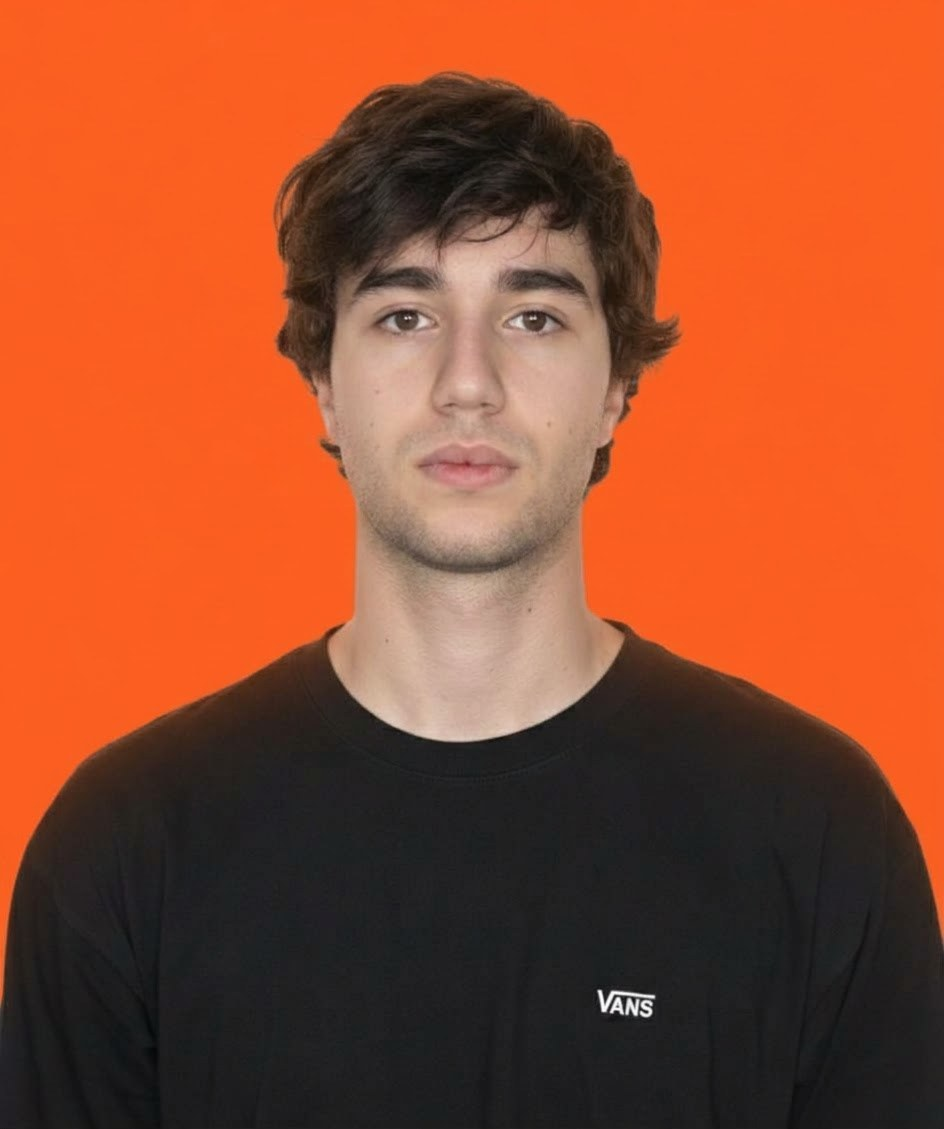
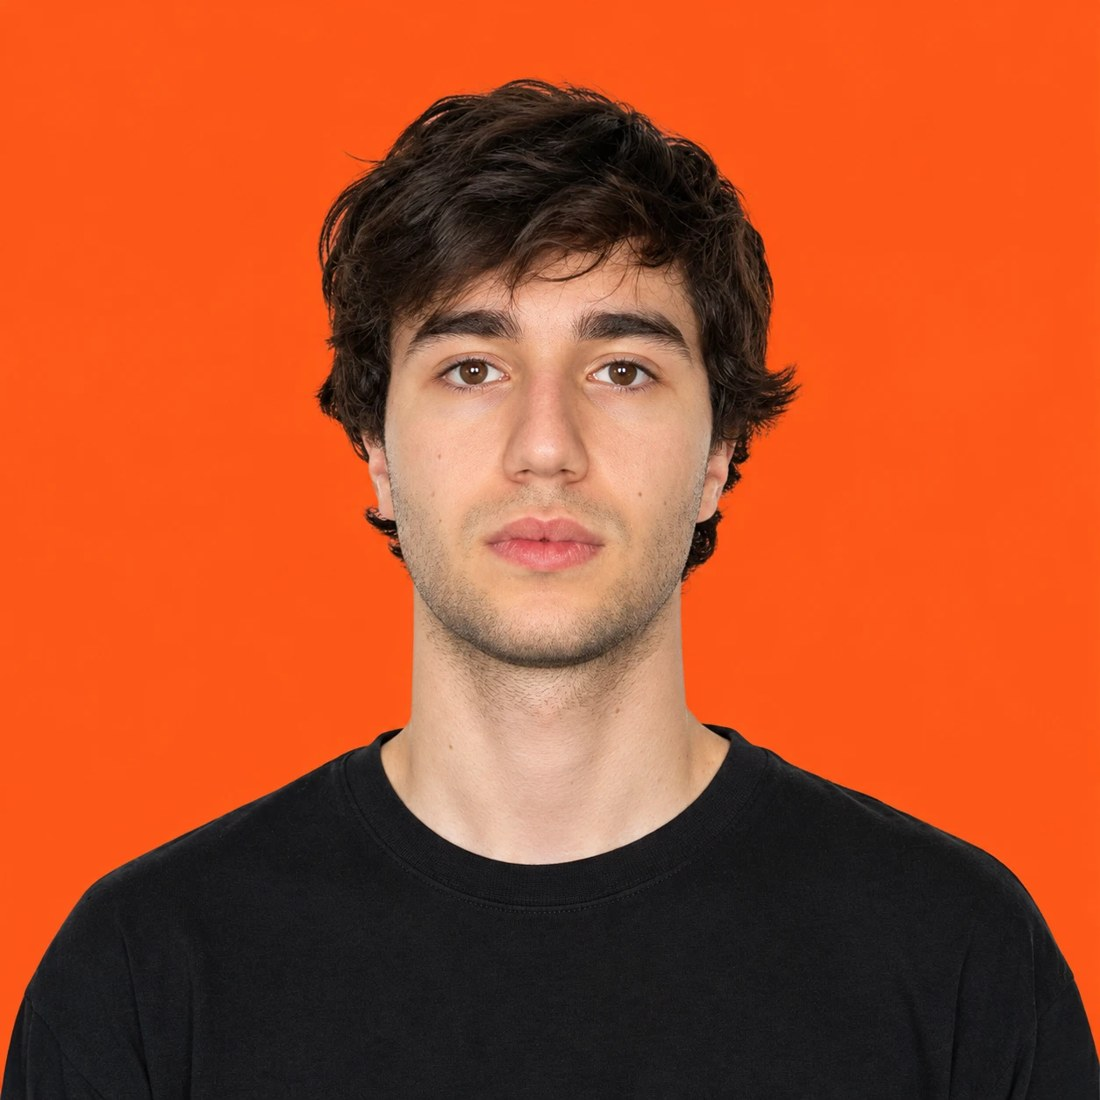
Troca a foto de perfil e ajusta o laranja da marca
- Nova foto no hero e na imagem Open Graph
- Laranja da marca igual ao fundo da foto (#FD581A) e ícones regenerados

Changed region(s): [[0.0, 0.0618, 1.0, 0.9891], [0.6144, 0.8655, 0.7066, 0.8964]]

diff --git a/app/globals.css b/app/globals.css
@@ -12,19 +12,19 @@
     --card-foreground: 40 30% 94%;
     --popover: 240 9% 8%;
     --popover-foreground: 40 30% 94%;
-    --primary: 17 96% 56%;
+    --primary: 16 98% 55%;
     --primary-foreground: 240 12% 5%;
     --secondary: 28 100% 64%;
     --secondary-foreground: 240 12% 5%;
     --muted: 240 7% 12%;
     --muted-foreground: 240 5% 62%;
-    --accent: 17 96% 56%;
+    --accent: 16 98% 55%;
     --accent-foreground: 240 12% 5%;
     --destructive: 0 84% 60%;
     --destructive-foreground: 0 0% 100%;
     --border: 240 6% 16%;
     --input: 240 6% 16%;
-    --ring: 17 96% 56%;
+    --ring: 16 98% 55%;
     --radius: 1rem;
   }
 }

diff --git a/app/components/hero.tsx b/app/components/hero.tsx
@@ -99,12 +99,12 @@ export default function Hero() {
         <div className="relative mx-auto w-full max-w-md lg:col-span-5 lg:max-w-none">
           <div className="relative aspect-[4/5] overflow-hidden rounded-[2rem] bg-primary">
             <Image
-              src="/felipe-rogai-portrait.webp"
+              src="/felipe-rogai-photo.webp"
               alt="Felipe Rogai"
               fill
               priority
               sizes="(min-width: 1024px) 40vw, 90vw"
-              className="object-cover object-[50%_35%]"
+              className="object-cover object-[50%_30%]"
             />
           </div>
 
